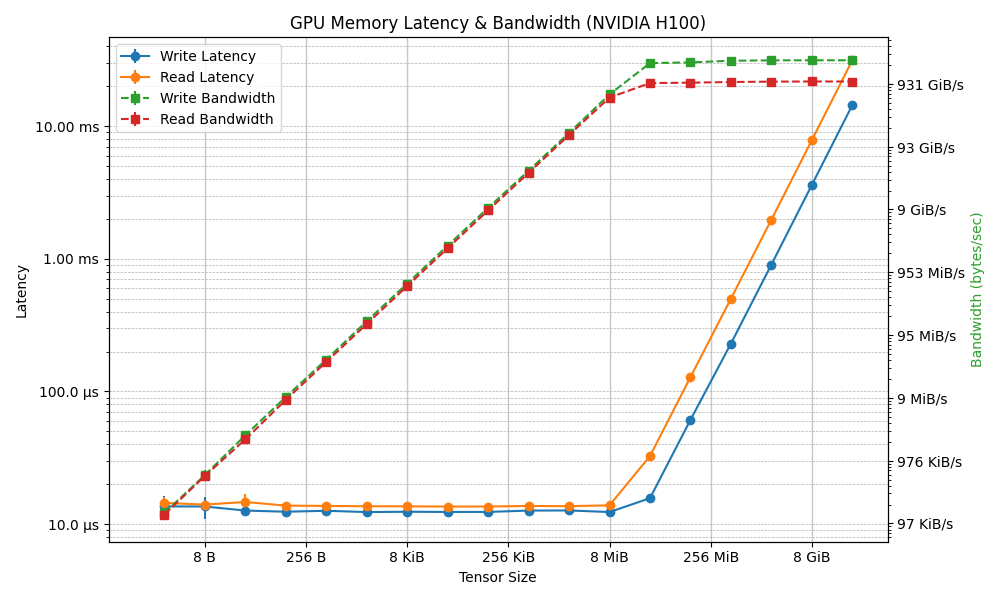
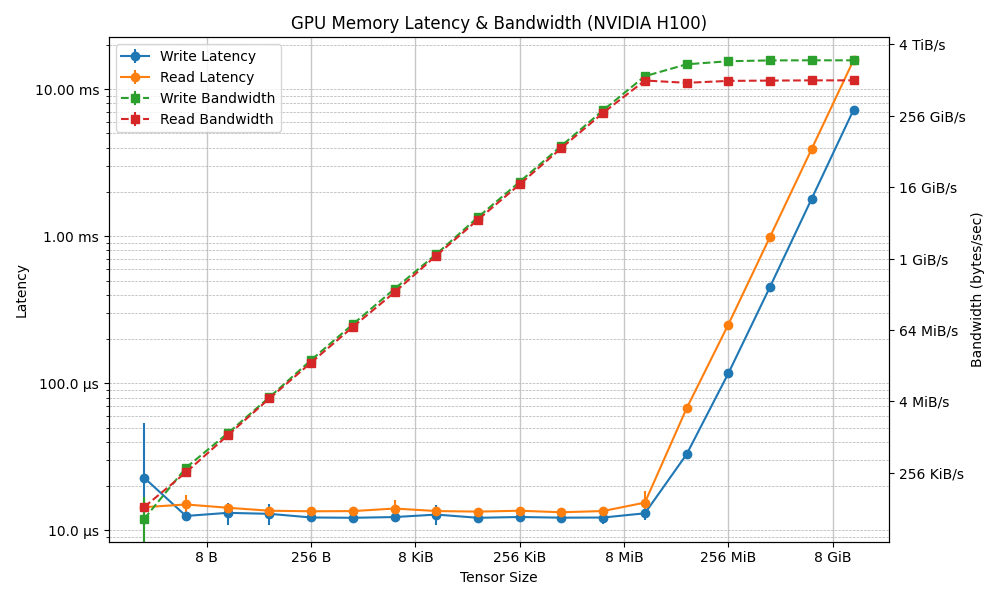
BW with TiB

diff --git a/test-memory-latency-bandwidth.py b/test-memory-latency-bandwidth.py
@@ -1,12 +1,7 @@
 import torch
-import time
-import matplotlib.pyplot as plt
-import matplotlib.ticker as ticker
 import numpy as np
 
 
-def init_tensor(num_elements, device):
-    return torch.randint(0, 256, (num_elements,), dtype=torch.uint8, device=device)
 
 def measure_memory_latency(gpu_id=0, tensor_size_bytes=1, runs=5, verbose=True, warmup=True):
     """
@@ -21,12 +16,12 @@ def measure_memory_latency(gpu_id=0, tensor_size_bytes=1, runs=5, verbose=True, 
         print(f"Measuring memory latency on GPU {gpu_id}: {torch.cuda.get_device_name(gpu_id)}")
 
     # Pre-allocate tensor
-    inp_tensor = torch.empty((num_elements,), dtype=torch.uint8, device=device)
-    outp_tensor = torch.empty((num_elements,), dtype=torch.uint8, device=device)
+    inp_tensor = torch.empty((tensor_size_bytes,), dtype=torch.uint8, device=device)
+    outp_tensor = torch.empty((tensor_size_bytes,), dtype=torch.uint8, device=device)
 
     # Warmup: run a write/read operation before actual timing
     if warmup:
-        inp_tensor.fill_(1)
+        inp_tensor.fill_(255)
         torch.cuda.synchronize()
         outp_tensor.copy_(inp_tensor)
         torch.cuda.synchronize()
@@ -35,27 +30,27 @@ def measure_memory_latency(gpu_id=0, tensor_size_bytes=1, runs=5, verbose=True, 
     read_latencies = []
     for _ in range(runs):
         # Write timing
-        # zeroes for as slow a write speed as possible
-        inp_tensor.fill_(0)
+        inp_tensor.fill_(255)
         start_evt = torch.cuda.Event(enable_timing=True)
         end_evt = torch.cuda.Event(enable_timing=True)
         start_evt.record()
-        inp_tensor.fill_(255)
+        inp_tensor.zero_()
         end_evt.record()
         torch.cuda.synchronize()
-        write_latencies.append(start_evt.elapsed_time(end_evt) / 1e3)  # ms to s
+        # Convert ms to seconds for all calculations
+        write_latencies.append(start_evt.elapsed_time(end_evt) / 1e3)
 
         # Read timing (clone all elements)
-        # zeroes for as quick a write speed as possible
-        inp_tensor.fill_(0)
-        outp_tensor.fill_(0)
+        inp_tensor.zero_()
+        outp_tensor.zero_()
         start_evt2 = torch.cuda.Event(enable_timing=True)
         end_evt2 = torch.cuda.Event(enable_timing=True)
         start_evt2.record()
         outp_tensor.copy_(inp_tensor)
         end_evt2.record()
         torch.cuda.synchronize()
-        read_latencies.append(start_evt2.elapsed_time(end_evt2) / 1e3)  # ms to s
+        # Convert ms to seconds for all calculations
+        read_latencies.append(start_evt2.elapsed_time(end_evt2) / 1e3)
 
     write_latencies = np.array(write_latencies)
     read_latencies = np.array(read_latencies)
@@ -68,8 +63,8 @@ def measure_memory_latency(gpu_id=0, tensor_size_bytes=1, runs=5, verbose=True, 
 
     if verbose:
         print(f"Tensor size: {tensor_size_bytes} bytes")
-        print(f"Write latency: {write_mean * 1e3:.3f} ± {write_std * 1e3:.3f} ms")
-        print(f"Read latency: {read_mean * 1e3:.3f} ± {read_std * 1e3:.3f} ms")
+        print(f"Write latency: {write_mean*1e3:.3f} ± {write_std*1e3:.3f} ms")
+        print(f"Read latency: {read_mean*1e3:.3f} ± {read_std*1e3:.3f} ms")
     return write_mean, write_std, read_mean, read_std
 
 
@@ -79,7 +74,8 @@ def sweep_memory_latency(gpu_id=0, sizes_bytes=None, runs=5, verbose=True):
     Warms up for the first few (smallest) sizes.
     """
     if sizes_bytes is None:
-        sizes_bytes = [1, 2, 4, 8, 16, 32, 64, 128, 256, 512]
+        sizes_bytes = [1]
+
     results = {
         'size_bytes': [],
         'write_ms_mean': [], 'write_ms_std': [],
@@ -87,9 +83,9 @@ def sweep_memory_latency(gpu_id=0, sizes_bytes=None, runs=5, verbose=True):
         'write_bw_mean': [], 'write_bw_std': [],
         'read_bw_mean': [], 'read_bw_std': []
     }
-    for idx, size in enumerate(sizes_bytes):
+    for _, size in enumerate(sizes_bytes):
         try:
-            # Warmup for the first 5 (smallest) sizes
+            # Warmup always
             warmup = True
             w_mean, w_std, r_mean, r_std = measure_memory_latency(gpu_id=gpu_id, tensor_size_bytes=size, runs=runs, verbose=verbose, warmup=warmup)
             results['size_bytes'].append(size)
@@ -98,10 +94,10 @@ def sweep_memory_latency(gpu_id=0, sizes_bytes=None, runs=5, verbose=True):
             results['read_ms_mean'].append(r_mean * 1e3)
             results['read_ms_std'].append(r_std * 1e3)
 
-            # Bandwidth in GiB/s
-            size_gb = size / 2**30
-            write_bw = size_gb / w_mean if w_mean > 0 else 0
-            read_bw = size_gb / r_mean if r_mean > 0 else 0
+            # Bandwidth in GiB/s (latency in seconds)
+            size_gib = size / 2**30
+            write_bw = size_gib / w_mean if w_mean > 0 else 0
+            read_bw = size_gib / r_mean if r_mean > 0 else 0
             # For stddev, propagate errors (relative stddev)
             write_bw_std = write_bw * (w_std / w_mean) if w_mean > 0 else 0
             read_bw_std = read_bw * (r_std / r_mean) if r_mean > 0 else 0
@@ -135,7 +131,7 @@ def plot_latency_results(results, output_file=None, gpu_name=None):
     l1 = ax1.errorbar(sizes, write_means, yerr=write_stds, label='Write Latency', fmt='-o', color='tab:blue')
     l2 = ax1.errorbar(sizes, read_means, yerr=read_stds, label='Read Latency', fmt='-o', color='tab:orange')
     ax1.set_xscale('log', base=2)
-    ax1.set_yscale('log')
+    ax1.set_yscale('log', base=10)
 
     # Format x-ticks as human-readable bytes
     def format_bytes(x, pos=None, suffix=""):
@@ -145,8 +141,10 @@ def plot_latency_results(results, output_file=None, gpu_name=None):
             return f"{int(x/1024)} KiB{suffix}"
         elif x < 1024**3:
             return f"{int(x/1024**2)} MiB{suffix}"
-        else:
+        elif x < 1024**4:
             return f"{int(x/1024**3)} GiB{suffix}"
+        else:
+            return f"{int(x/1024**4)} TiB{suffix}"
     ax1.xaxis.set_major_formatter(ticker.FuncFormatter(lambda x, pos: format_bytes(x, pos)))
     ax1.xaxis.set_major_locator(ticker.LogLocator(base=2))
     ax1.xaxis.set_minor_locator(ticker.LogLocator(base=2, subs='auto', numticks=100))
@@ -179,11 +177,10 @@ def plot_latency_results(results, output_file=None, gpu_name=None):
         l3 = ax2.errorbar(sizes, write_bw_means * 1024**3, yerr=write_bw_stds * 1024**3, label='Write Bandwidth', fmt='--s', color='tab:green')
     if len(read_bw_means) > 0:
         l4 = ax2.errorbar(sizes, read_bw_means * 1024**3, yerr=read_bw_stds * 1024**3, label='Read Bandwidth', fmt='--s', color='tab:red')
-    ax2.set_yscale('log')
+    ax2.set_yscale('log', base=2)
     # Bandwidth is now in bytes/sec, so use the same formatter as bytes, with '/s' suffix
     ax2.yaxis.set_major_formatter(ticker.FuncFormatter(lambda y, pos: format_bytes(y, pos, suffix='/s')))
     ax2.set_ylabel('Bandwidth (bytes/sec)')
-    ax2.yaxis.label.set_color('tab:green')
 
     # Combine legends from both axes
     lines, labels = ax1.get_legend_handles_labels()
@@ -232,7 +229,7 @@ if __name__ == "__main__":
     sizes_bytes = []
     # Only include powers of 2 above 512 bytes
 
-    i = 1
+    i = 0
     while 2**i <= max_mem_bytes:
         sizes_bytes.append(2**i)
         i += 2

diff --git a/README.md b/README.md
@@ -1,0 +1,53 @@
+# GPU Memory Latency and Bandwidth Benchmark
+
+This project provides scripts to benchmark GPU memory latency and bandwidth using PyTorch. The results are visualized in the form of plots for different GPU models.
+
+---
+
+## Methodology
+- Timing is done using CUDA event timers to ensure accurate GPU-side measurements. The operation is repeated several times, and the mean and standard deviation are reported.
+- Measurements are performed for a range of tensor sizes (from a few bytes up to several GiB).
+- Results are averaged over several runs.
+
+
+### Latency Measurement
+- **Write Latency:**
+  - Performance is checked with the `tensor.fill_` method.
+  - For maximum bitflips, the byte-tensor is filled with `11111111` (255) after being initialized to `00000000` (0).
+  
+- **Read Latency:**
+  - For minimum bitflips, the tensor is filled with `00000000` (0) after already being set to `00000000` (0).
+  - The contents of the tensor are read by copying it to another tensor (`outp_tensor.copy_(inp_tensor)`), ensuring all elements are accessed.
+
+### Bandwidth Calculation
+- For each memory operation, bandwidth is calculated as:
+  - **Bandwidth (GiB/s) = Tensor Size (GiB) / Latency (s)**
+- Standard deviation is propagated from the latency measurements.
+
+---
+
+## Example Results
+
+Below are the plots generated for two NVIDIA GPUs present on Snellius:
+
+### NVIDIA A100-SXM4-40GB
+![A100 Latency/Bandwidth](NVIDIA-A100-SXM4-40GB.png)
+
+### NVIDIA H100-SXM5-94GB
+![H100 Latency/Bandwidth](NVIDIA-H100.png)
+
+---
+
+## Usage
+
+Run the benchmark script (e.g., for latency and bandwidth):
+```bash
+python test-memory-latency-bandwidth.py
+```
+
+Results will be printed to the console and saved as a plot PNG file named after the detected GPU.
+
+---
+
+## License
+MIT
